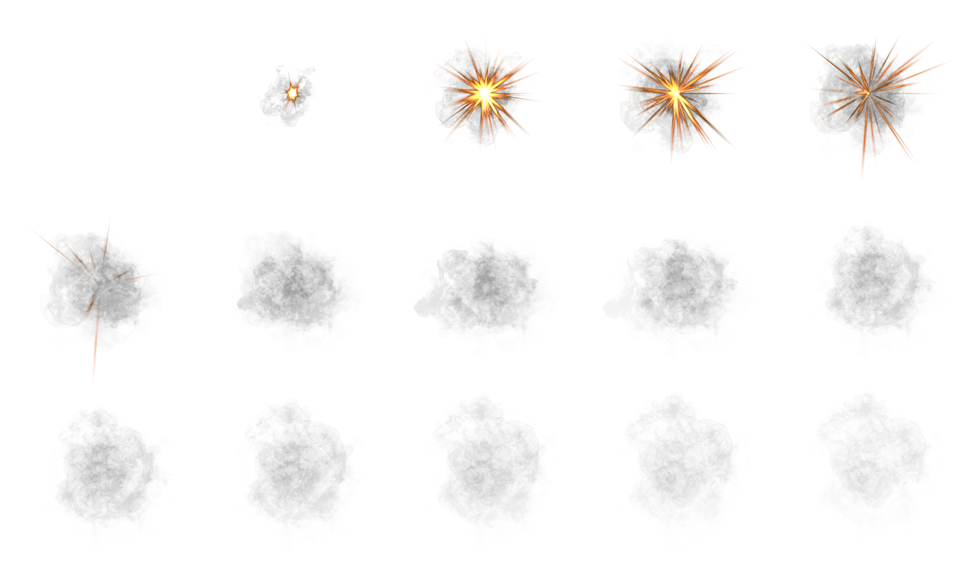
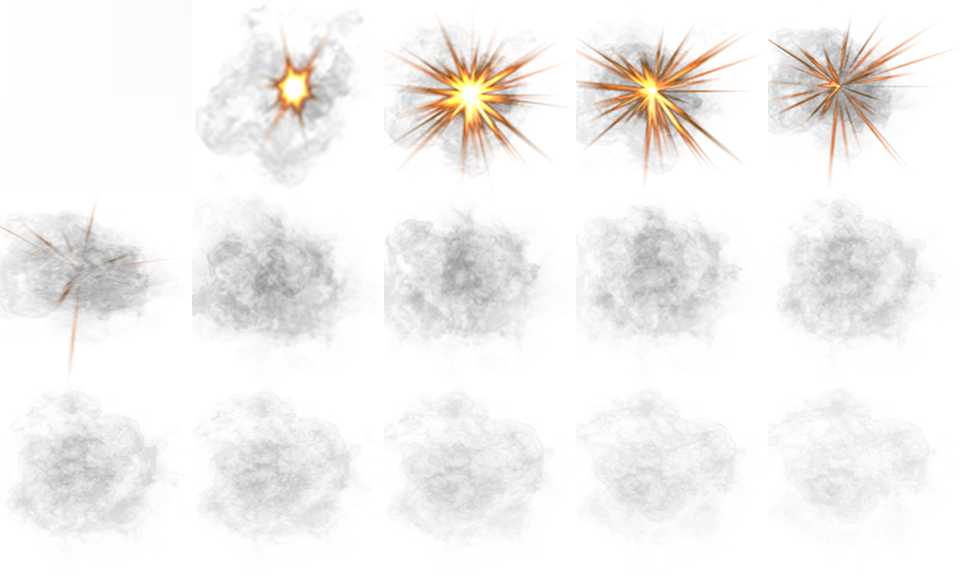
improved animaition

diff --git a/src/main/java/cz/cvut/fit/niadp/mvcgame/bridge/JavaFxGraphics.java b/src/main/java/cz/cvut/fit/niadp/mvcgame/bridge/JavaFxGraphics.java
@@ -26,6 +26,16 @@ public class JavaFxGraphics  implements IGameGraphicsImplementor {
 
     @Override
     public void drawImageRegion(String path,Position destination,int sourceX,int sourceY,int sourceWidth,int sourceHeight) {
+        drawImageRegion(
+            path, destination, sourceX, sourceY, sourceWidth, sourceHeight,
+            sourceWidth, sourceHeight
+        );
+    }
+
+
+    @Override
+    public void drawImageRegion(String path, Position destination, int sourceX, int sourceY, int sourceWidth,
+            int sourceHeight, int destinationWidth, int destinationHeight) {
         graphicsContext.drawImage(getImage(path),
             sourceX,
             sourceY,
@@ -33,10 +43,11 @@ public class JavaFxGraphics  implements IGameGraphicsImplementor {
             sourceHeight,
             destination.getX(),
             destination.getY(),
-            sourceWidth,
-            sourceHeight
+            destinationWidth,
+            destinationHeight
         );
     }
+
 
     private Image getImage(String path) {
         return imageCache.computeIfAbsent(path, Image::new);

diff --git a/src/main/java/cz/cvut/fit/niadp/mvcgame/bridge/GameGraphics.java b/src/main/java/cz/cvut/fit/niadp/mvcgame/bridge/GameGraphics.java
@@ -30,9 +30,14 @@ public class GameGraphics implements IGameGraphics {
         implementor.clear();
     }
 
+
+    @Override
+    public void drawImageRegion(String path,Position destination,int sourceX,int sourceY,int sourceWidth,int sourceHeight, int destinationWidth, int destinationHeight) {
+        implementor.drawImageRegion(path, destination, sourceX, sourceY, sourceWidth, sourceHeight, destinationWidth, destinationHeight);
+    }
+
     @Override
     public void drawImageRegion(String path,Position destination,int sourceX,int sourceY,int sourceWidth,int sourceHeight) {
         implementor.drawImageRegion(path, destination, sourceX, sourceY, sourceWidth, sourceHeight);
     }
-
 }

diff --git a/src/main/java/cz/cvut/fit/niadp/mvcgame/model/gameObjects/AbstractImpactObject.java b/src/main/java/cz/cvut/fit/niadp/mvcgame/model/gameObjects/AbstractImpactObject.java
@@ -3,11 +3,17 @@ package cz.cvut.fit.niadp.mvcgame.model.gameObjects;
 import cz.cvut.fit.niadp.mvcgame.model.Position;
 
 public abstract class AbstractImpactObject extends LifetimeLimitedGameObject{
-    protected AbstractImpactObject(Position initPosition) {
+    protected int width;
+    protected int height;
+    protected AbstractImpactObject(Position initPosition,int height, int width) {
         super(initPosition);
+        this.width = width;
+        this.height = height;
     }
 
     public abstract boolean isExpired();
     public abstract long getLifetimeDurationMillis();
+    public int getWidth(){return this.width;};
+    public int getHeight(){return this.height;};
     
 }

diff --git a/src/main/java/cz/cvut/fit/niadp/mvcgame/model/GameModel.java b/src/main/java/cz/cvut/fit/niadp/mvcgame/model/GameModel.java
@@ -72,7 +72,9 @@ public class GameModel implements IGameModel{
 
                     if (enemiesToRemove.add(enemy)) {
                         gameInfo.increaseScore(enemy.getScoreForKill());
-                        impactAnimations.add(factory.createImpact(enemy.getPosition()));
+                        impactAnimations.add(factory.createImpact(enemy.getPosition(),
+                                                                  enemy.getHitbox().getWidth(),
+                                                                  enemy.getHitbox().getHeight()));
                     }
                     break;
                 }

diff --git a/src/main/java/cz/cvut/fit/niadp/mvcgame/bridge/IGameGraphicsImplementor.java b/src/main/java/cz/cvut/fit/niadp/mvcgame/bridge/IGameGraphicsImplementor.java
@@ -5,6 +5,7 @@ import cz.cvut.fit.niadp.mvcgame.model.Position;
 public interface IGameGraphicsImplementor {
     void drawImage(String path, Position position);
     void drawImageRegion(String path,Position destination,int sourceX,int sourceY,int sourceWidth,int sourceHeight);
+    void drawImageRegion(String path,Position destination,int sourceX,int sourceY,int sourceWidth,int sourceHeight, int destinationWidth, int destinationHeight);
     void drawText(String text, Position position);
     void drawRectangle(Position leftTop, Position rightBottom);
     void drawLine(Position startPosition, Position endPosition);

diff --git a/src/main/java/cz/cvut/fit/niadp/mvcgame/visitor/GameDrawer.java b/src/main/java/cz/cvut/fit/niadp/mvcgame/visitor/GameDrawer.java
@@ -96,13 +96,16 @@ public class GameDrawer implements IVisitor{
         int column = frameIndex % IMPACT_SHEET_COLUMNS;
         int row = frameIndex / IMPACT_SHEET_COLUMNS;
 
+        //draws animation part based on lifetime of object
         gameGraphics.drawImageRegion(
             MvcGameResources.IMPACT_IMAGE,
             impact.getPosition(),
             column * IMPACT_FRAME_WIDTH,
             row * IMPACT_FRAME_HEIGHT,
             IMPACT_FRAME_WIDTH,
-            IMPACT_FRAME_HEIGHT
+            IMPACT_FRAME_HEIGHT,
+            impact.getWidth(),
+            impact.getHeight()
         );
     }
 

diff --git a/src/main/java/cz/cvut/fit/niadp/mvcgame/abstractFactory/GameObjectsFactoryA.java b/src/main/java/cz/cvut/fit/niadp/mvcgame/abstractFactory/GameObjectsFactoryA.java
@@ -40,8 +40,8 @@ public class GameObjectsFactoryA implements IGameObjectsFactory{
     }
 
     @Override
-    public AbstractImpactObject createImpact(Position position) {
-        return new ImpactA(new Position(position.getX(), position.getY()));
+    public AbstractImpactObject createImpact(Position position, int width, int height) {
+        return new ImpactA(new Position(position.getX(), position.getY()),width,height);
     }
 
 

diff --git a/src/main/java/cz/cvut/fit/niadp/mvcgame/bridge/IGameGraphics.java b/src/main/java/cz/cvut/fit/niadp/mvcgame/bridge/IGameGraphics.java
@@ -12,8 +12,20 @@ public interface IGameGraphics {
         int sourceX,
         int sourceY,
         int sourceWidth,
+        int sourceHeight,
+        int destinationWidth,
+        int destinationHeight
+    );
+    
+    void drawImageRegion(
+        String path,
+        Position destination,
+        int sourceX,
+        int sourceY,
+        int sourceWidth,
         int sourceHeight
     );
+    
 
     void clear();
 }

diff --git a/src/main/java/cz/cvut/fit/niadp/mvcgame/model/gameObjects/familyA/ImpactA.java b/src/main/java/cz/cvut/fit/niadp/mvcgame/model/gameObjects/familyA/ImpactA.java
@@ -7,8 +7,9 @@ import cz.cvut.fit.niadp.mvcgame.visitor.IVisitor;
 public class ImpactA extends AbstractImpactObject{
     private static final long LIFETIME_DURATION_MILLIS = 1_500;
 
-    public ImpactA(Position initPosition) {
-        super(initPosition);
+    public ImpactA(Position initPosition, int width, int height ) {
+        super(initPosition,width,height);
+        
     }
 
     @Override

diff --git a/src/main/java/cz/cvut/fit/niadp/mvcgame/abstractFactory/IGameObjectsFactory.java b/src/main/java/cz/cvut/fit/niadp/mvcgame/abstractFactory/IGameObjectsFactory.java
@@ -10,5 +10,5 @@ public interface IGameObjectsFactory {
     public AbstractCannon createCannon();
     public AbstractMissile createMissile(double initAngle, int initVelocity);
     public AbstractEnemy createEnemy(Position position);
-    public AbstractImpactObject createImpact(Position position);
+    AbstractImpactObject createImpact(Position position, int width, int height);
 }

diff --git a/src/main/java/cz/cvut/fit/niadp/mvcgame/model/gameObjects/Hitbox.java b/src/main/java/cz/cvut/fit/niadp/mvcgame/model/gameObjects/Hitbox.java
@@ -21,6 +21,14 @@ public class Hitbox {
         return position.getY();
     }
 
+    public int getWidth(){
+        return width;
+    }
+
+    public int getHeight(){
+        return height;
+    }
+
     public boolean overlaps(Hitbox other){
         return getX() < other.getX() + other.width
             && getX() + width > other.getX()
